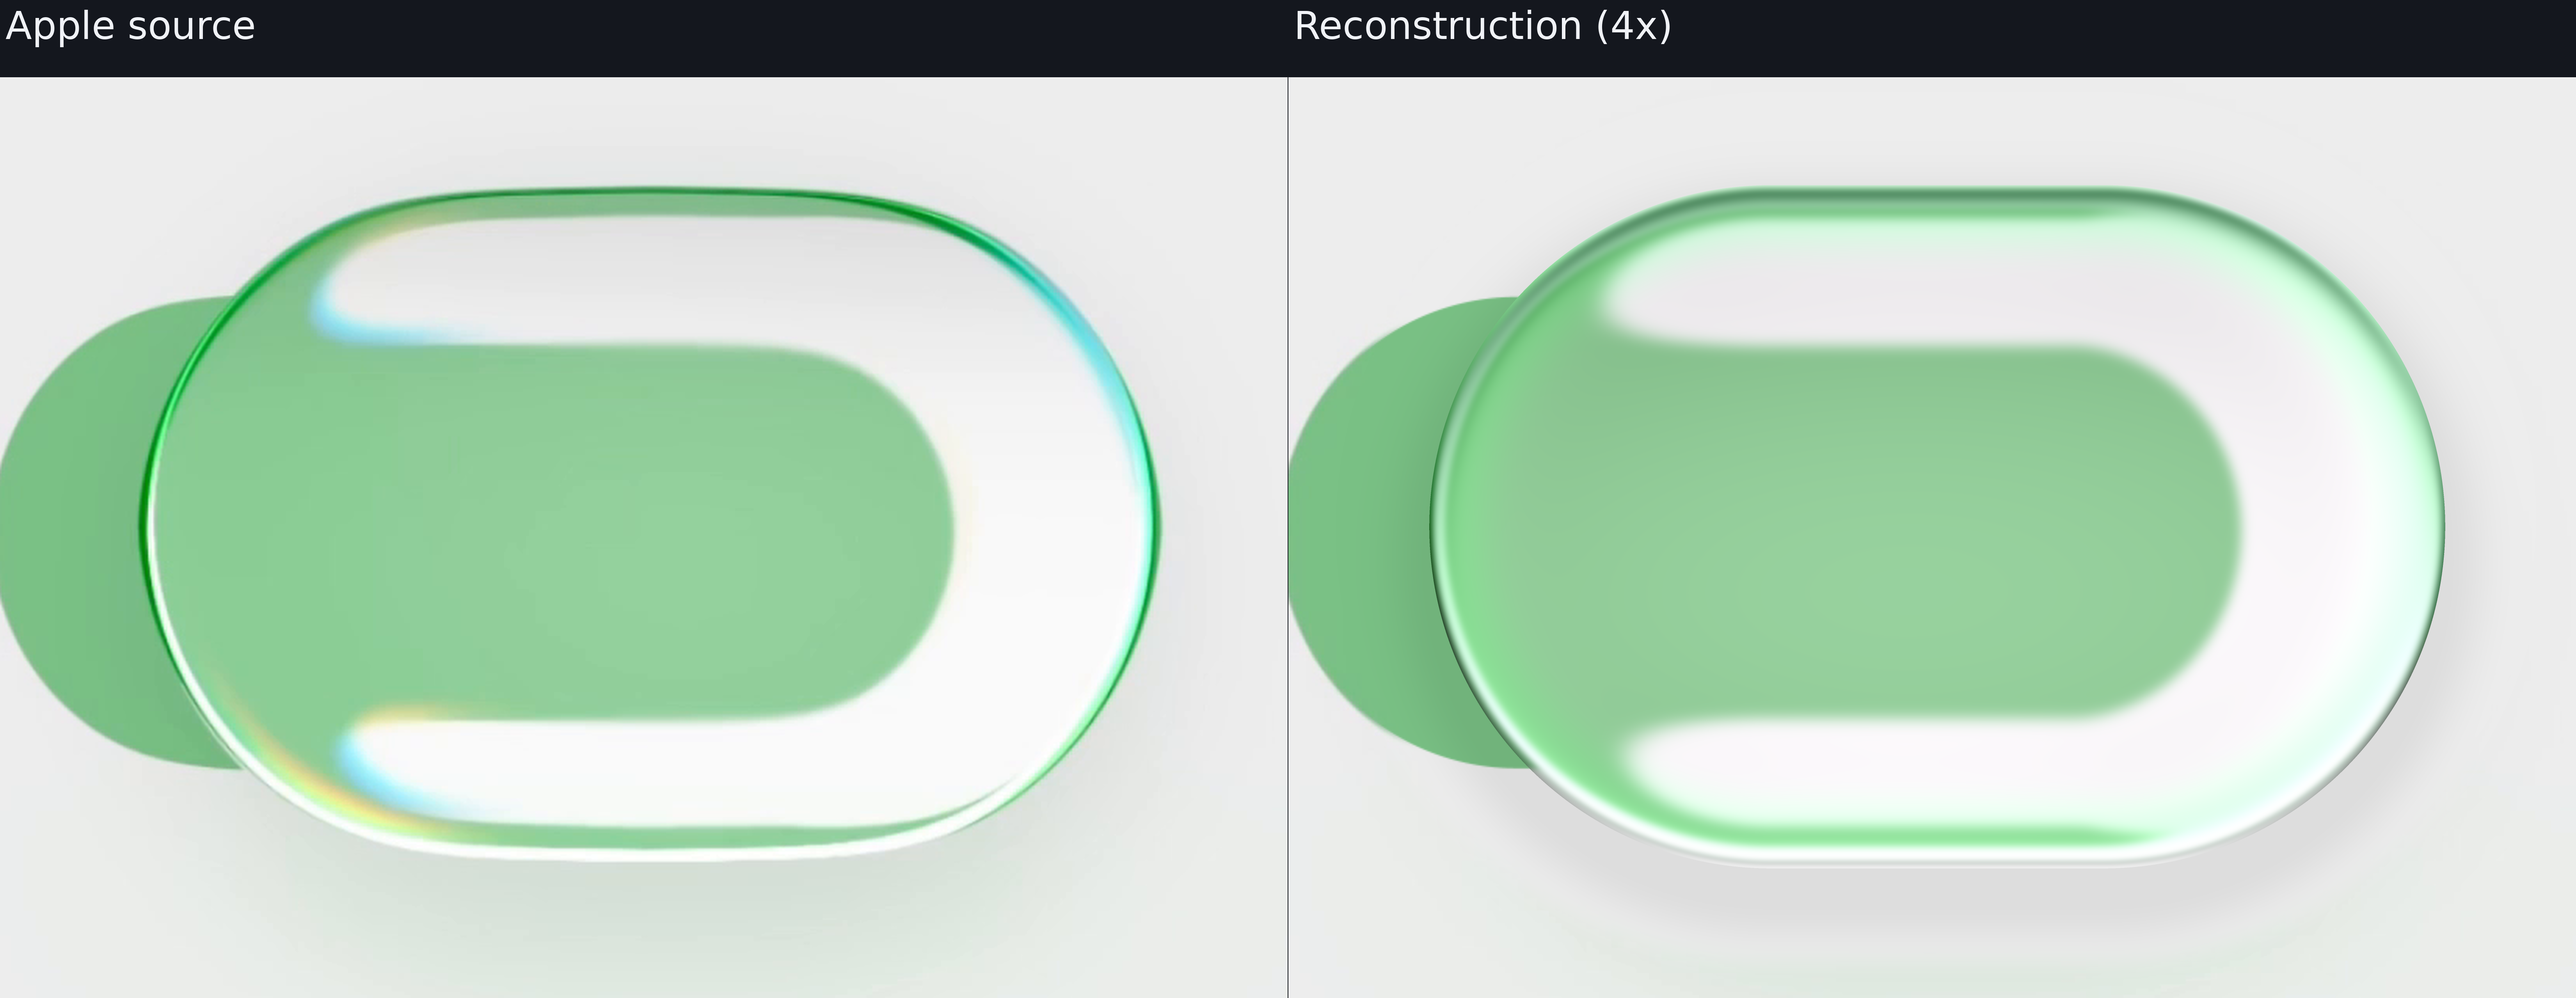
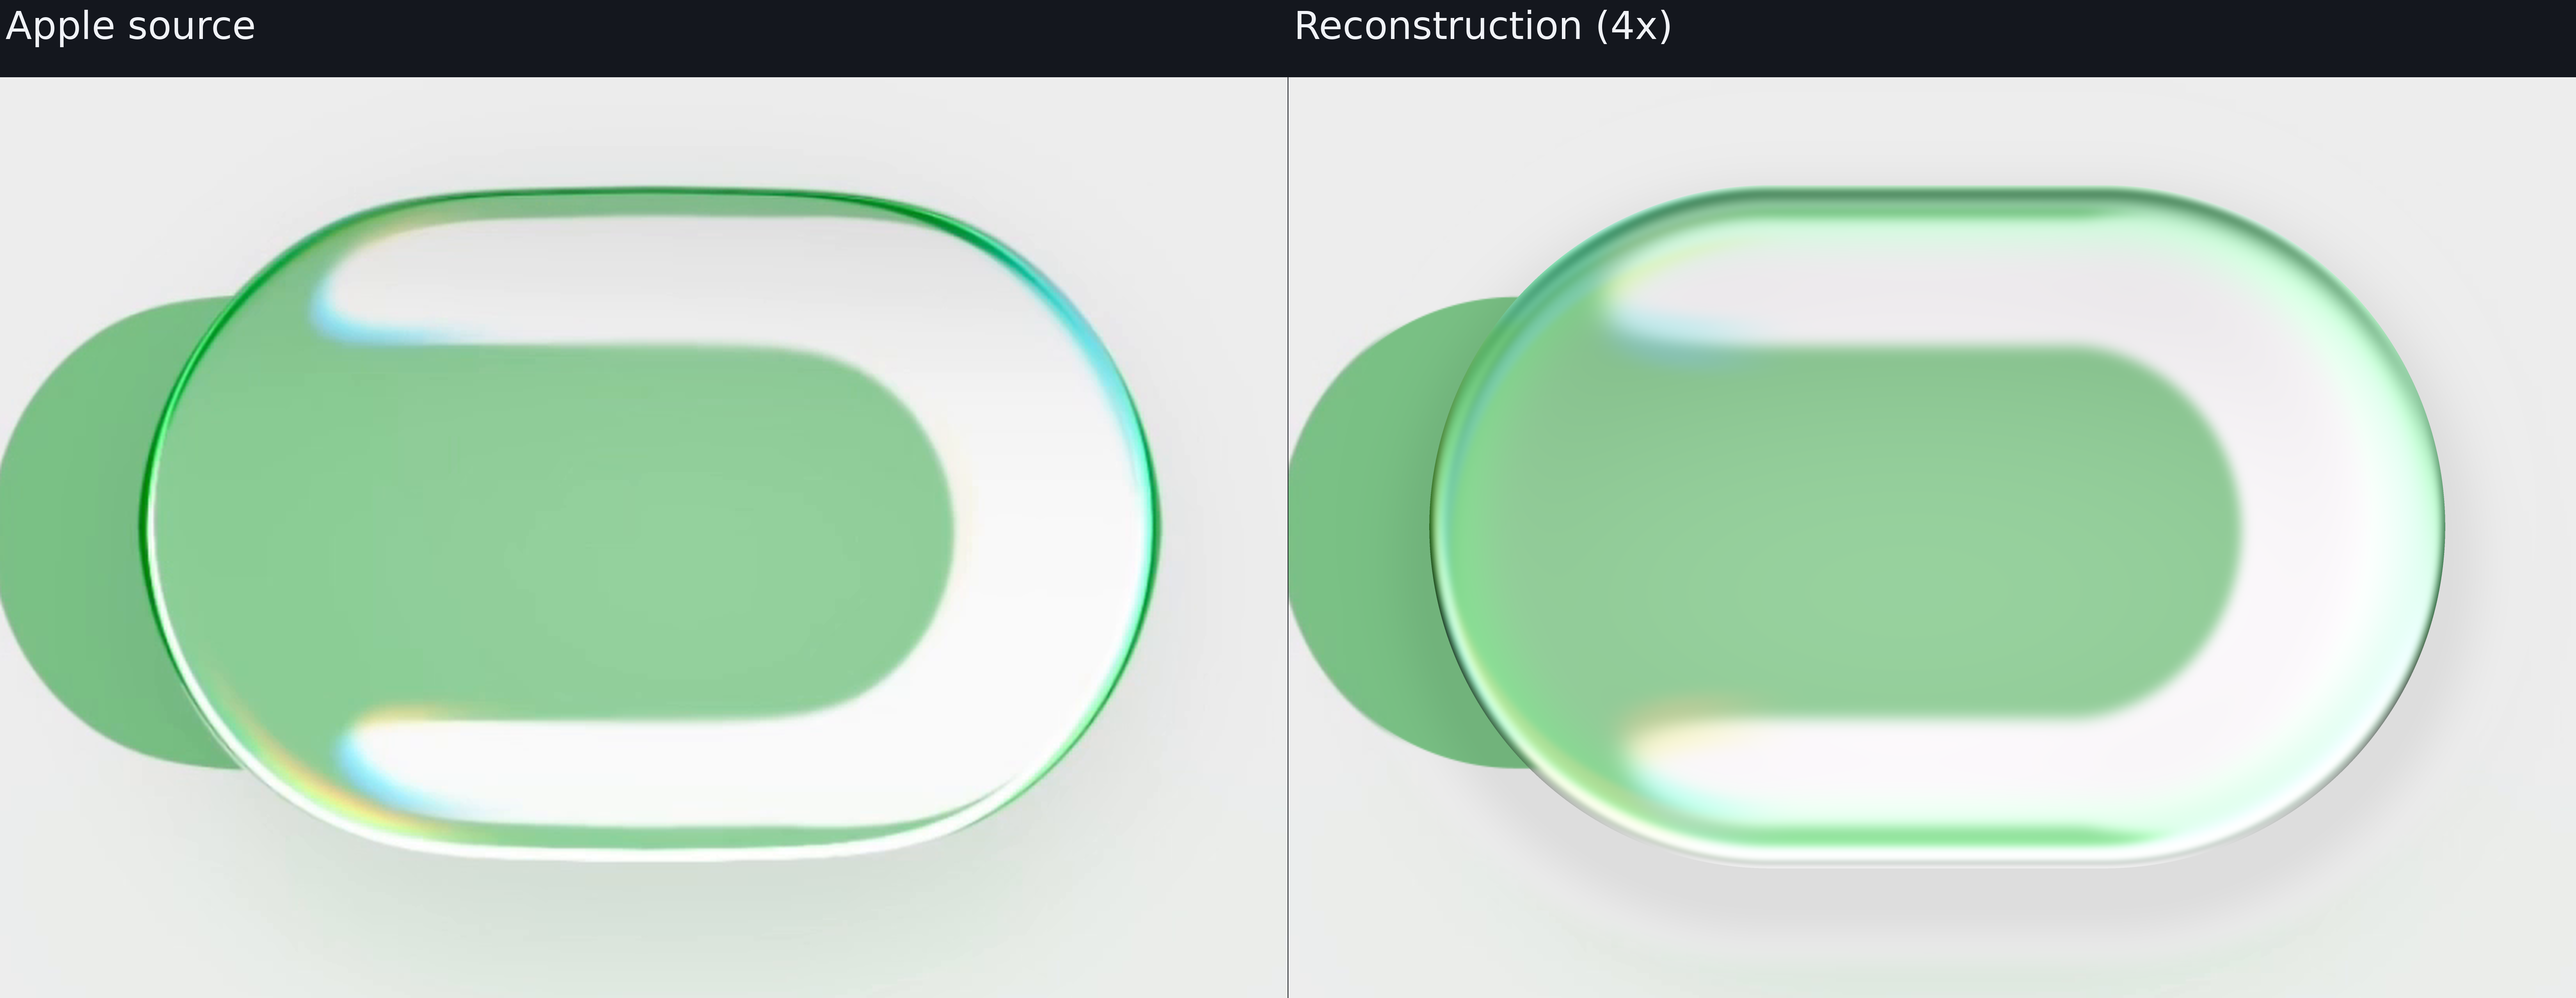
Refine active-switch paired-background pass 24: directional channel separation before fixed material lighting (#222) [skip ci]

Changed region(s): [[0.5616, 0.2471, 0.6865, 0.4633], [0.5929, 0.6794, 0.6865, 0.8339], [0.5616, 0.7103, 0.5929, 0.7412]]

diff --git a/docs/liquid-glass/reconstruction.md b/docs/liquid-glass/reconstruction.md
@@ -255,7 +255,7 @@ Frames A/B: 2.5/2.0 seconds. The foreground has been replaced with a clean symme
 
 ## Active switch — in progress
 
-Frames A/B: 9.4/10.5 seconds in [Apple's Details video](https://www.apple.com/newsroom/videos/2025/autoplay/06/apple-introduces-a-delightful-and-elegant-new-software-design/apple-wwdc25-liquid-glass-details/large_2x.mp4). These **4× snapshots** show 24 initial experiments and paired pass 23, not a completed study. Both use one signed image map and material, with the measured pose/size of each thumb.
+Frames A/B: 9.4/10.5 seconds in [Apple's Details video](https://www.apple.com/newsroom/videos/2025/autoplay/06/apple-introduces-a-delightful-and-elegant-new-software-design/apple-wwdc25-liquid-glass-details/large_2x.mp4). These **4× snapshots** show 24 initial experiments and paired pass 24, not a completed study. Both use one signed image map and material, with the measured pose/size of each thumb.
 
 [![Switch progress, green track: Apple left, reconstruction right](assets/study-active-switch-progress-a.png)](assets/study-active-switch-progress-a.png)
 
@@ -289,7 +289,7 @@ Frames A/B: 9.4/10.5 seconds in [Apple's Details video](https://www.apple.com/ne
 
 ### Colored switch rim
 
-Each crop below places Apple on the left and snapshot 23 on the right. The gray-track reference contains a warm patch near RGB `(251,236,209)` and a cyan lower rim. The estimated track itself is near `(190,195,189)`. Those hue changes require investigation beyond ordinary shared-channel sampling of that estimate.
+Each crop below places Apple on the left and snapshot 24 on the right. The gray-track reference contains a warm patch near RGB `(251,236,209)` and a cyan lower rim. The estimated track itself is near `(190,195,189)`. Those hue changes require investigation beyond ordinary shared-channel sampling of that estimate.
 
 [![Switch rim details: Apple and reconstruction across six cropped regions](assets/switch-rim-detail.png)](assets/switch-rim-detail.png)
 
@@ -308,7 +308,7 @@ Each crop below places Apple on the left and snapshot 23 on the right. The gray-
 | Search | 52.284 / 50.753 | 6.794 / 6.592 | 28 / 21 | Completed study |
 | Navigation | 3.916 / 55.270 | 1.611 / 6.044 | 20 / 24 | Completed study; rim mismatch |
 | Home | 55.738 / 114.298 | 6.956 / 9.731 | 22 / 20 | Boundary correction required |
-| Active switch, pass 23 | 254.741 / 277.399 | 12.615 / 14.734 | 24 / 23 | In progress |
+| Active switch, pass 24 | 232.758 / 276.129 | 12.061 / 14.677 | 24 / 24 | In progress |
 
 - Weighted loss is `0.7 × glass RMSE² + 0.3 × rim RMSE²`; each sample's loss and whole-glass RMSE must hold or improve. Rejected experiments retain the incumbent. Home's missing single-to-paired boundary check is explicitly flagged above.
 - These studies use two samples per output axis and fixed native-reference masks. They are not directly ranked against the earlier four-sample-per-axis studies below. Foreground errors and source-footprint diagnostics remain separate from glass scores.
